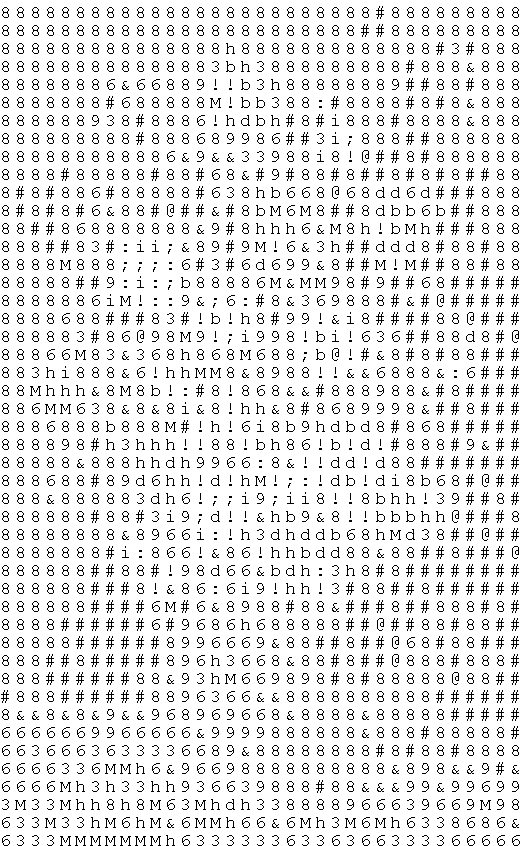
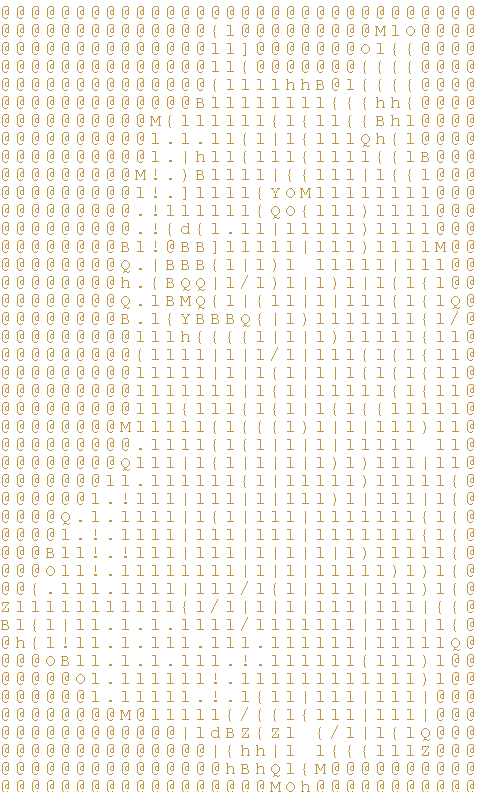
update

Changed region(s): [[0.0, 0.0, 1.0, 1.0]]

diff --git a/Java/win.java b/Java/win.java
@@ -10,32 +10,52 @@ public class win extends JPanel{
     int height = 1000;
     int width = 800;
 
+    // Custom shit to change or dang variaubuls
+    public double scale = 0;
+    public int colors = 24; //to be used
+    public  int bitAmount = 24;
+    public int text = 1;
+    public int charScale = 3;
+    public boolean saveIMG = true;
+    public boolean ASCII = true;
+    public boolean GreyScale = true;
+
+
     public int imgwidth;
     public int imgheight;
 
-    String imgpath = "C:\\Github\\ASCII-art-generator\\Java\\TEST-IMG.jpg";
+    static JFrame f;
+    static JButton b, b1, b2;
+    static JLabel l;
+
+    String imgpath = "C:\\Github\\ASCII-art-generator\\Java\\doge.png";
     // Jasper path: "C:\\Github\\ASCII-art-generator\\Java\\TEST-IMG.jpg"
     // J path 2: "C:\\Users\\Vrill\\Documents\\GitHub\\ASCII-art-generator\\Java\\TEST-IMG.jpg"
     // Malik path: "C:\\Users\\malik\\IdeaProjects\\ASCII\\src\\L-1253-00-000003-wpu.jpg"
     win(){
-        JFrame mainFrame = new JFrame("ASCII Art Generator");
-        mainFrame.setPreferredSize(new Dimension(width,height));
+        f = new JFrame("ASCII Art Generator");
 
-        mainFrame.setDefaultCloseOperation(JFrame.EXIT_ON_CLOSE);
-        mainFrame.add(this);
-        mainFrame.setVisible(true);
-
-        JLabel l = new JLabel("test label");
-
+        l = new JLabel("test label");
         //Buttons
-        JButton b = new JButton("Toggle ASCII");
+        b = new JButton("Toggle ASCII");
+        b1 = new JButton("Toggle ASCII2");
 
-        mainFrame.pack();
+        JPanel p = new JPanel();
+
+        p.add(l);
+        p.add(this);
+        p.add(b);
+        p.add(b1);
+
+        f.setVisible(true);
+        f.setPreferredSize(new Dimension(width,height));
+
+        f.setDefaultCloseOperation(JFrame.EXIT_ON_CLOSE);
+        f.pack();
 
         JPanel border = new JPanel(new BorderLayout());
 
-        //border.add(mainFrame, BorderLayout.WEST);
-        border.add(b, BorderLayout.EAST);
+
 
     }
 

diff --git a/Java/Main.java b/Java/Main.java
@@ -5,13 +5,13 @@ public class Main {
     // 0 er normal size
     // Minus ganger op
     // Plus dividere
-    public static double scale = 16;
+    public static double scale = 20;
 //13
     // Jo færre farver jo lavere
     public static int bitAmount = 24;
 
     // Vælg pack af tegn
-    public static int text = 3;
+    public static int text = 1;
 
     // Grey Yes = 1 else no
     public static int grey = 1;

diff --git a/Java/Symbols.java b/Java/Symbols.java
@@ -46,7 +46,7 @@ public class Symbols {
        ag.fillRect(0, 0, asciiImg.getWidth(), asciiImg.getHeight());
 
         ag.setFont(new Font("Monospaced", Font.PLAIN, fontSize));
-        ag.setColor(Color.BLACK);
+        ag.setColor(new Color(190,149,70));
 
         for (int y = 0; y < imgH; y++) {
             for (int x = 0; x < imgW; x++) {